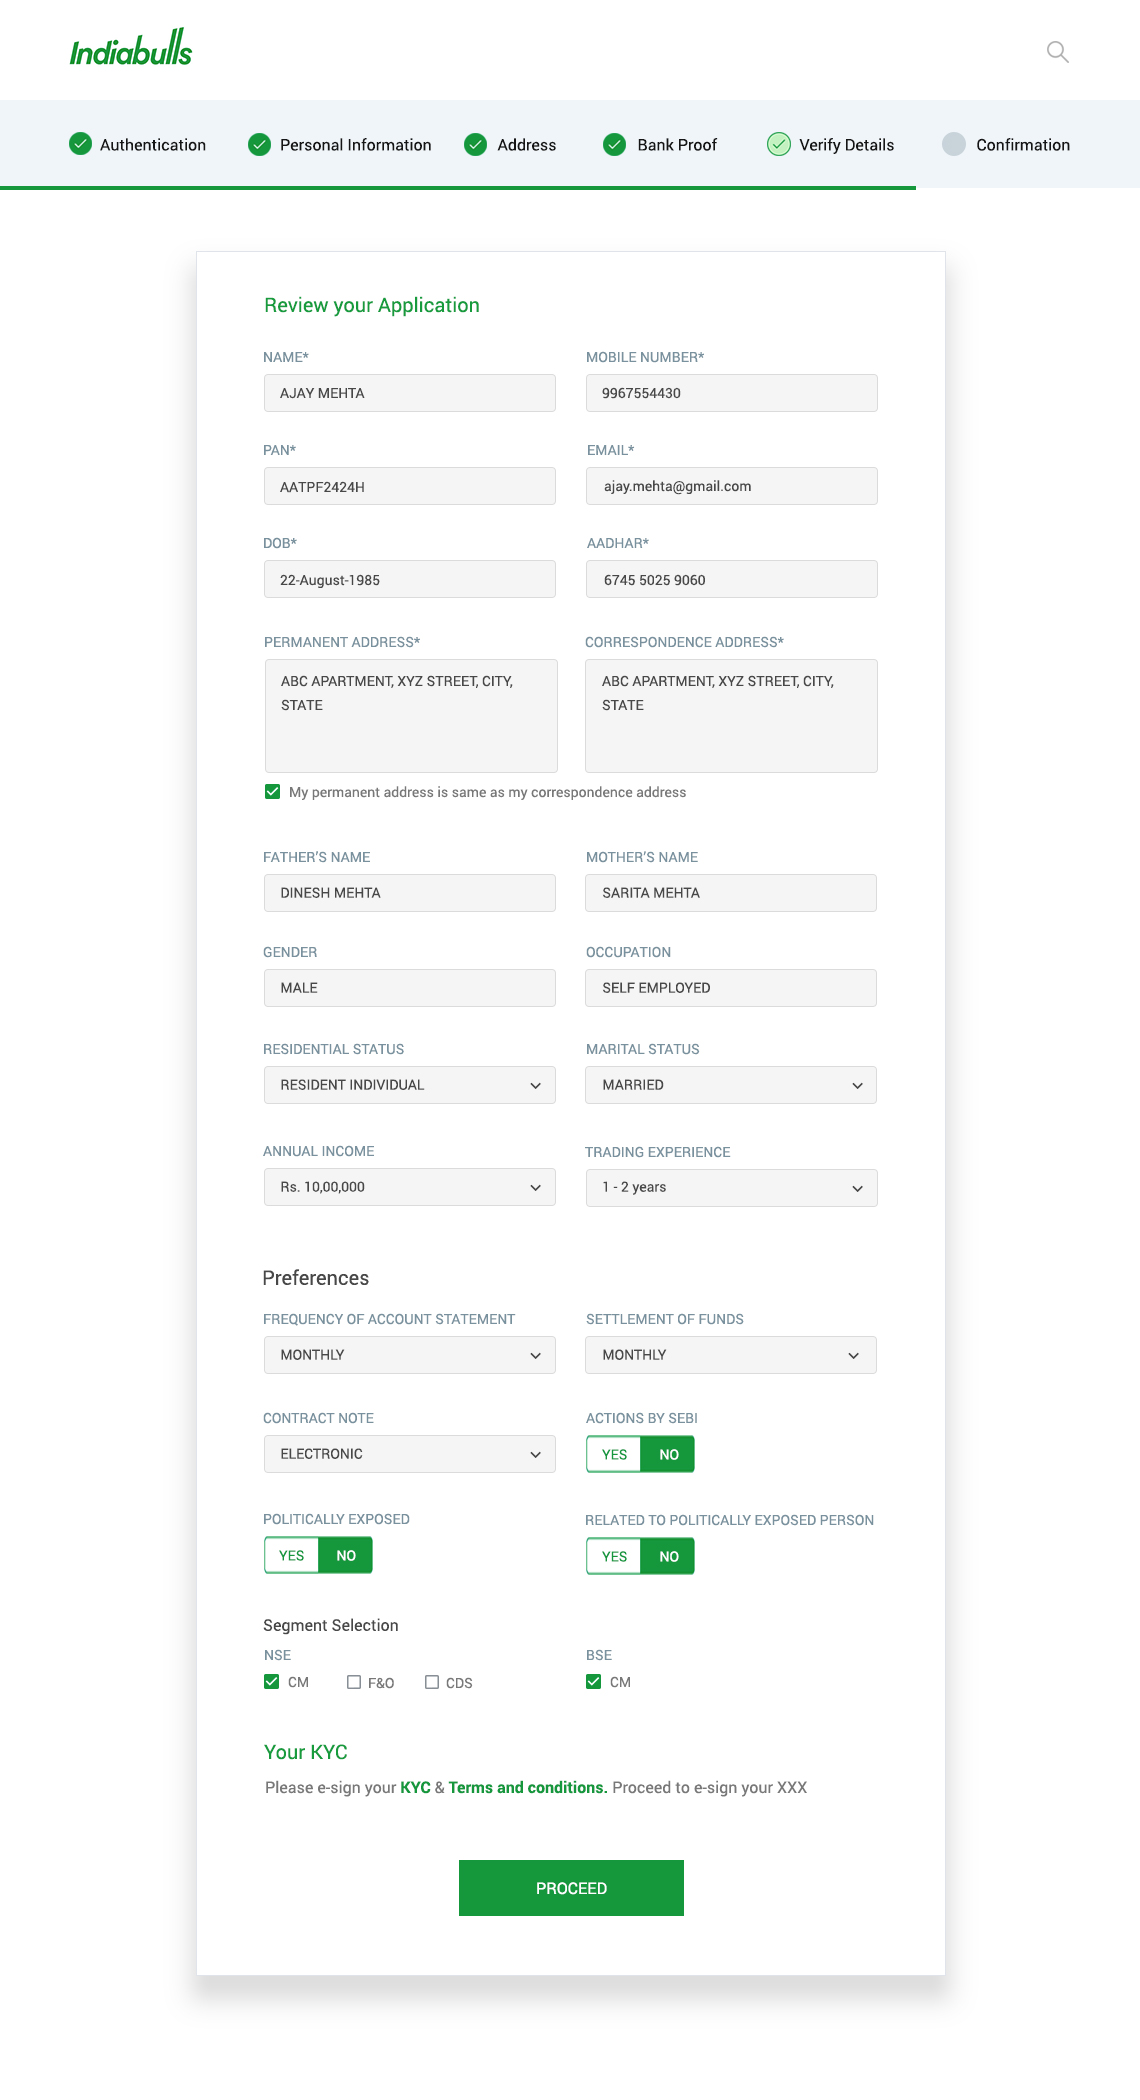
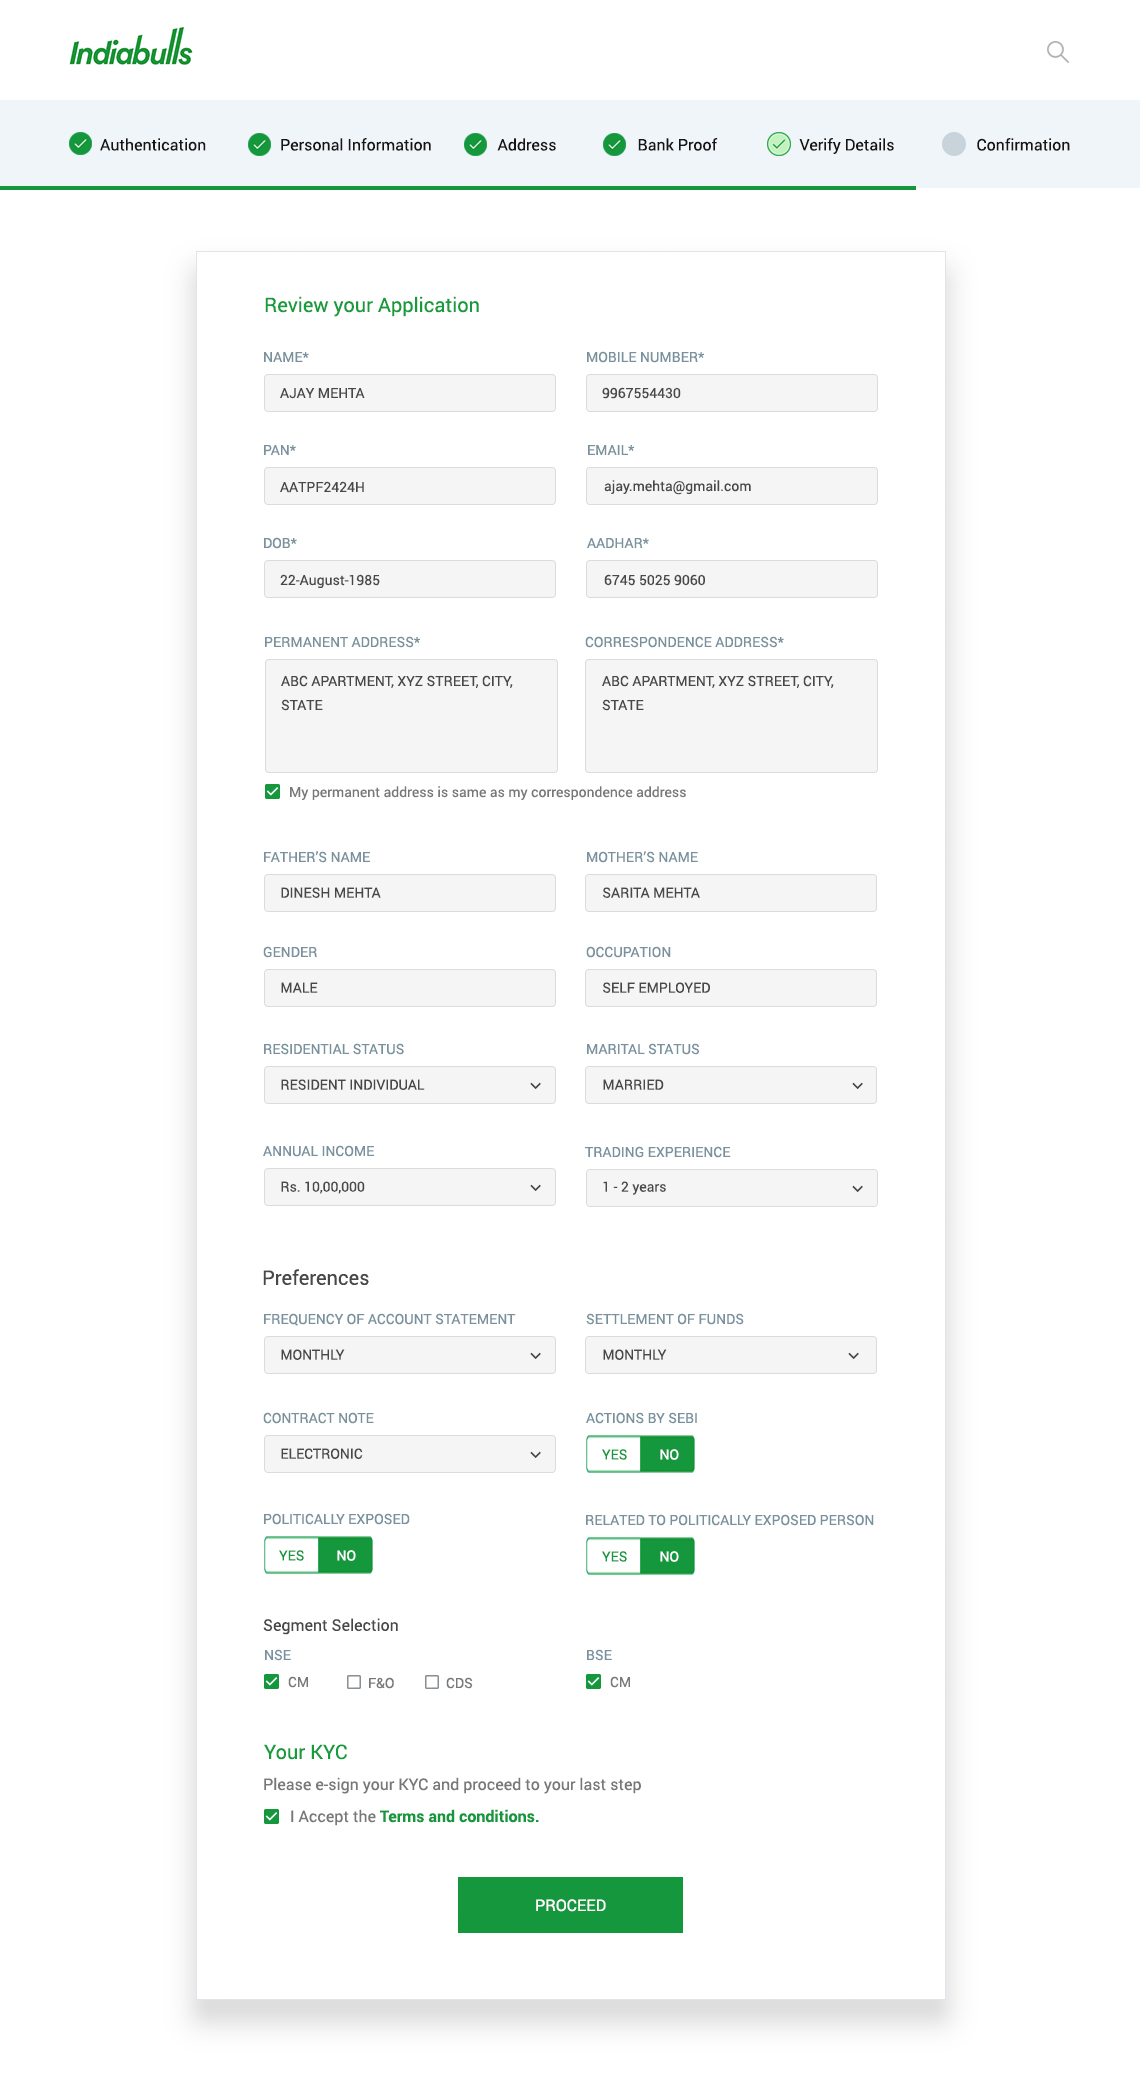
v1.8.7

Changed region(s): [[0.1842, 0.8357, 0.8289, 0.9595]]

diff --git a/IVL_multistage_form/v3/5.html b/IVL_multistage_form/v3/5.html
@@ -25,7 +25,7 @@
   <area shape="rect" coords="250,114,464,187" href="2.html">
   <area shape="rect" coords="473,113,606,188" href="3.html">
   <area shape="rect" coords="629,113,772,188" href="4.html">
-  <area shape="rect" coords="473,1942,734,2030" href="5a.html">
+  <area shape="rect" coords="471,1962,732,2050" href="5a.html">
 </map>
 </div>
 
